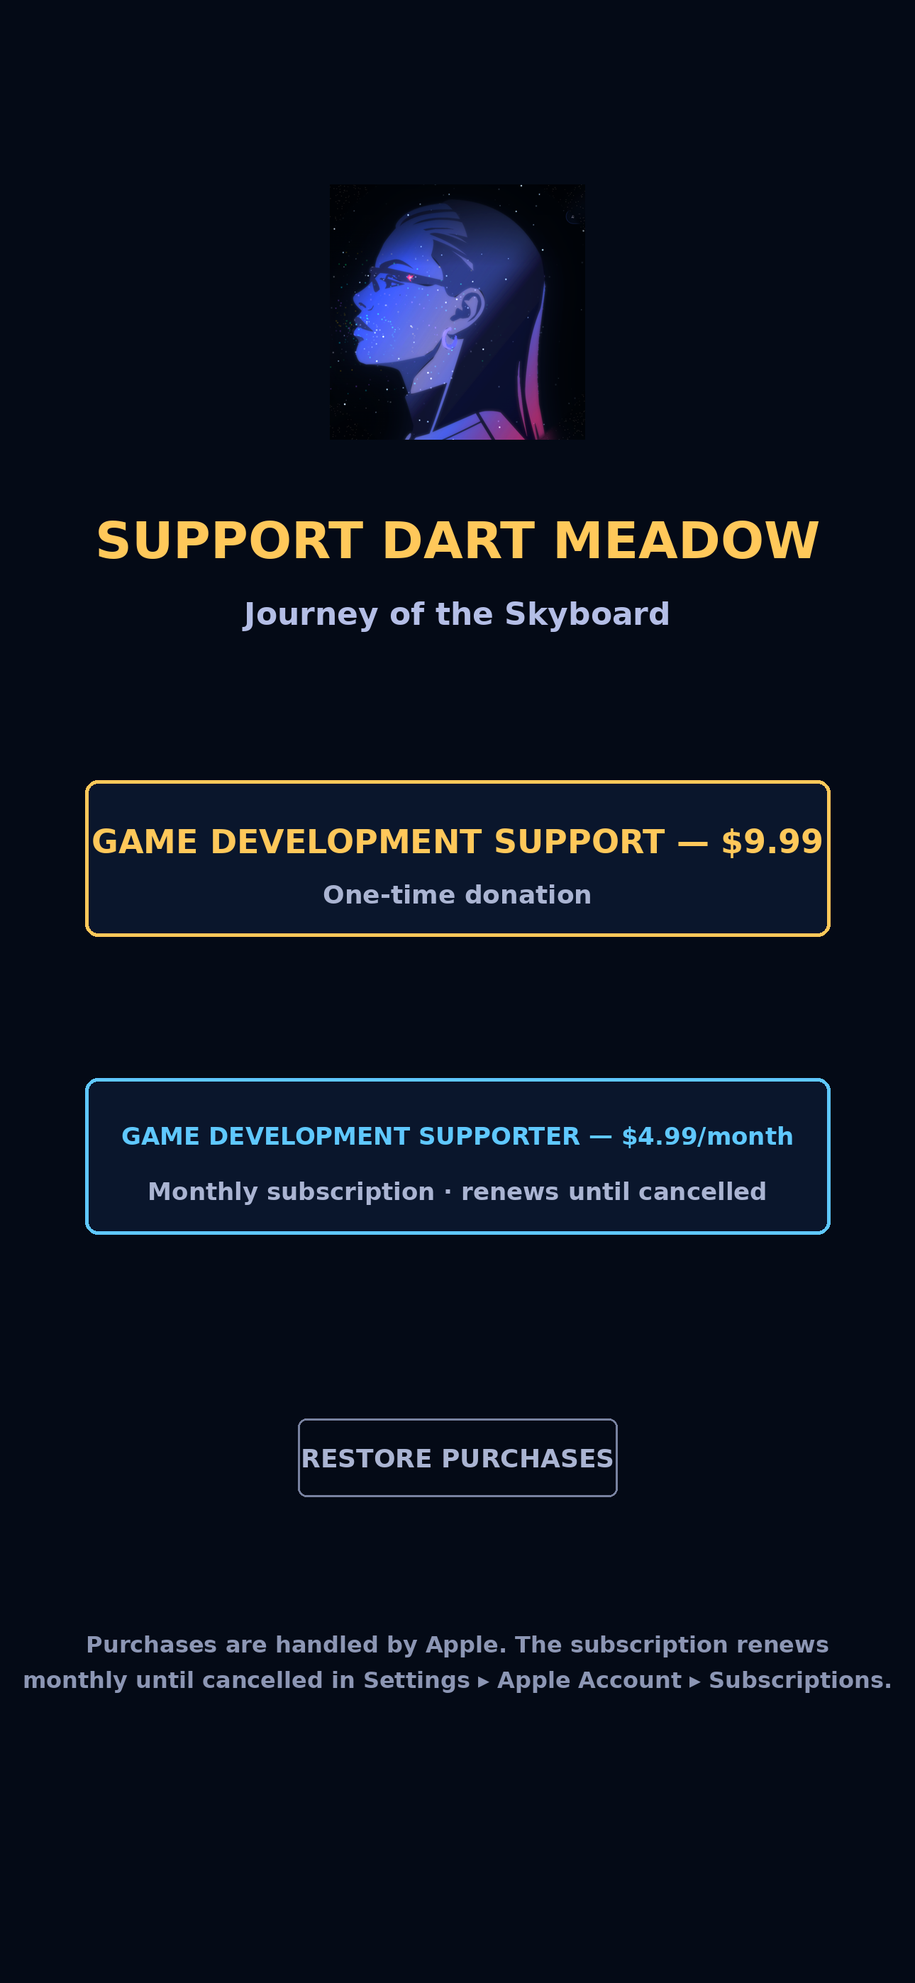
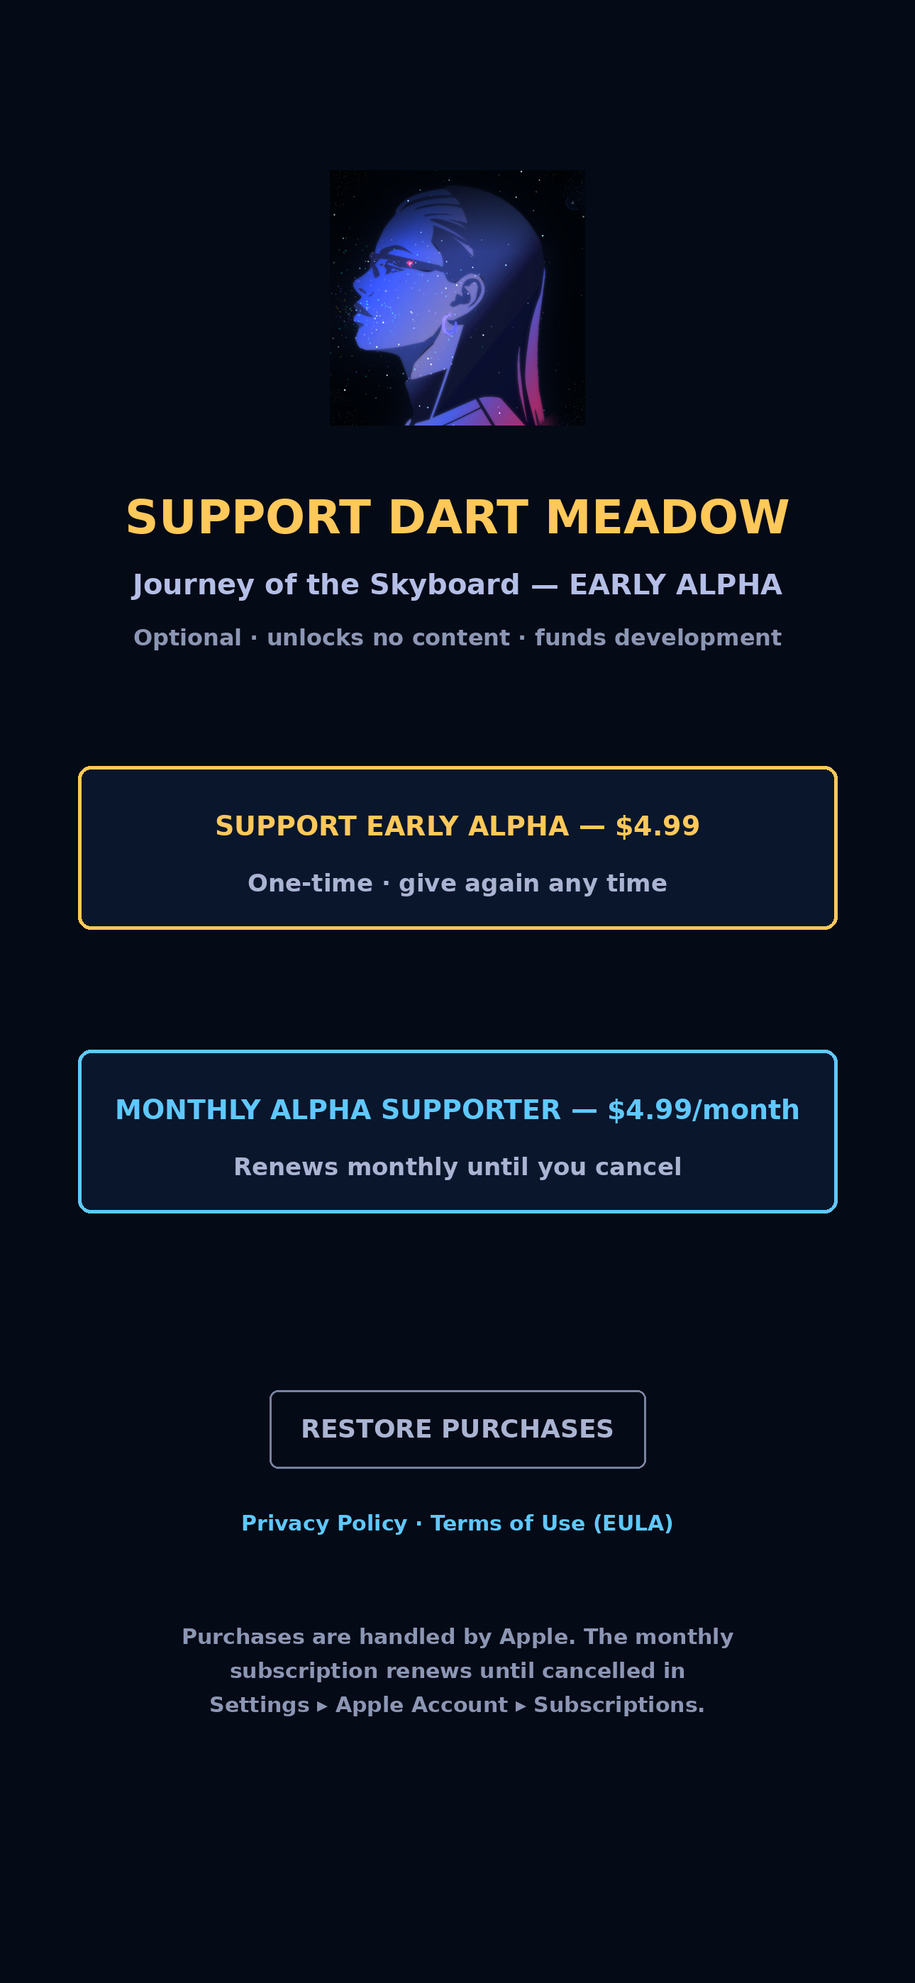
Publishing prep: alpha support IAP labels, listing metadata + asc_listing.py, screenshot workflow

diff --git a/App/Bridge/dm-ios-bridge.js b/App/Bridge/dm-ios-bridge.js
@@ -255,7 +255,7 @@ try { (function () {
     const thanks = lsGet(THANKS_LS) || { donations: 0 };
     if (iapState.status.subscribed) {
       box.appendChild(iapEl('div', 'font-family:var(--font-hud);font-size:.62rem;letter-spacing:.1em;color:var(--gold);line-height:1.6;',
-        '✓ THANK YOU — YOU\'RE A GAME DEVELOPMENT SUPPORTER' + (iapState.status.willRenew === false ? ' (ends ' + String(iapState.status.expires || '').slice(0, 10) + ')' : ' · RENEWS MONTHLY')));
+        '✓ THANK YOU — YOU\'RE A MONTHLY ALPHA SUPPORTER' + (iapState.status.willRenew === false ? ' (ends ' + String(iapState.status.expires || '').slice(0, 10) + ')' : ' · RENEWS MONTHLY')));
     }
     if (thanks.donations > 0) {
       box.appendChild(iapEl('div', 'font-family:var(--font-mono);font-size:.6rem;color:var(--cyan);', '❤ Thank you for ' + thanks.donations + ' donation' + (thanks.donations === 1 ? '' : 's') + '!'));
@@ -270,10 +270,10 @@ try { (function () {
       b.onclick = () => buy(id);
       return b;
     };
-    box.appendChild(mk(IAP.donation, '🌟 GAME DEVELOPMENT SUPPORT', 'var(--gold)'));
-    box.appendChild(iapEl('div', 'font-family:var(--font-mono);font-size:.54rem;color:var(--text-dim);margin-top:-.6rem;', 'One-time donation · give again any time'));
-    box.appendChild(mk(IAP.monthly, '☄ GAME DEVELOPMENT SUPPORTER', 'var(--cyan)'));
-    box.appendChild(iapEl('div', 'font-family:var(--font-mono);font-size:.54rem;color:var(--text-dim);margin-top:-.6rem;', 'Monthly subscription · renews automatically until you cancel'));
+    box.appendChild(mk(IAP.donation, '🌟 SUPPORT EARLY ALPHA', 'var(--gold)'));
+    box.appendChild(iapEl('div', 'font-family:var(--font-mono);font-size:.54rem;color:var(--text-dim);margin-top:-.6rem;', 'One-time support for early alpha development · give again any time'));
+    box.appendChild(mk(IAP.monthly, '☄ MONTHLY ALPHA SUPPORTER', 'var(--cyan)'));
+    box.appendChild(iapEl('div', 'font-family:var(--font-mono);font-size:.54rem;color:var(--text-dim);margin-top:-.6rem;', 'Monthly support for early alpha development · renews automatically until you cancel'));
     const row = iapEl('div', 'display:flex;gap:.6rem;justify-content:center;flex-wrap:wrap;');
     const restore = iapEl('button', 'background:none;border:1px solid var(--border);color:var(--text-dim);font-family:var(--font-hud);font-size:.52rem;letter-spacing:.1em;padding:.45rem .9rem;border-radius:2px;cursor:pointer;', 'RESTORE PURCHASES');
     restore.onclick = doRestore;
@@ -307,7 +307,7 @@ try { (function () {
       if (r.status === 'success') {
         if (id === IAP.donation) { const t = lsGet(THANKS_LS) || { donations: 0 }; t.donations++; t.last = Date.now(); lsSet(THANKS_LS, t); }
         iapState.status = Object.assign(iapState.status, r);
-        say(id === IAP.donation ? '❤ Thank you for supporting DART Meadow!' : '☄ Thank you — you\'re a Game Development Supporter!', 4200);
+        say(id === IAP.donation ? '❤ Thank you for supporting DART Meadow\'s early alpha!' : '☄ Thank you — you\'re a Monthly Alpha Supporter!', 4200);
         try { J().analytics.track('support', id === IAP.donation ? 'donation' : 'monthly'); } catch (e) {}
         iapState.busy = false; renderSupport('');
       } else {

diff --git a/Web/index.html b/Web/index.html
@@ -1240,8 +1240,9 @@ html.immersive #app,html.immersive #loading-screen{height:100dvh;}
     <div style="text-align:left;background:rgba(var(--acc-rgb),0.04);border:1px solid var(--border);border-radius:4px;padding:0.8rem 1rem;margin-bottom:1rem;">
       <div style="font-family:var(--font-hud);font-size:0.6rem;letter-spacing:0.1em;color:var(--cyan);margin-bottom:0.4rem;">WAYS TO SUPPORT</div>
       <div style="font-family:var(--font-mono);font-size:0.66rem;color:var(--text);line-height:1.7;">
-        <div>🌟 <strong style="color:var(--gold);">Game Development Support</strong> — one-time donation</div>
-        <div>☄ <strong style="color:var(--cyan);">Game Development Supporter</strong> — monthly subscription</div>
+        <div>🌟 <strong style="color:var(--gold);">Support Early Alpha</strong> — one-time</div>
+        <div>☄ <strong style="color:var(--cyan);">Monthly Alpha Supporter</strong> — renews monthly</div>
+        <div style="opacity:.75;">DART Meadow is in early alpha. Purchases are optional, unlock no content, and go straight into development. Prices are shown in your App Store currency below.</div>
       </div>
     </div>
 

diff --git a/App/GameViewController.swift b/App/GameViewController.swift
@@ -19,7 +19,9 @@ final class GameViewController: UIViewController {
     override var prefersHomeIndicatorAutoHidden: Bool { true }
     override var preferredScreenEdgesDeferringSystemGestures: UIRectEdge { .all }
     override var supportedInterfaceOrientations: UIInterfaceOrientationMask {
-        UIDevice.current.userInterfaceIdiom == .pad ? .all : .allButUpsideDown
+        // -dmLandscape: CI App Store screenshot runs only (never set in normal launches).
+        if ProcessInfo.processInfo.arguments.contains("-dmLandscape") { return .landscapeRight }
+        return UIDevice.current.userInterfaceIdiom == .pad ? .all : .allButUpsideDown
     }
 
     // MARK: Lifecycle

diff --git a/scripts/asc_listing.py b/scripts/asc_listing.py
@@ -1,0 +1,243 @@
+#!/usr/bin/env python3
+"""Publishing prep for DART Meadow (no submission):
+  1) IAP: donation $4.99, alpha-supporter names/descriptions, notes, review screenshot
+  2) App Store listing: version 1.0 en-US metadata, categories, age rating, Free price,
+     availability, review contact, screenshots from Design/appstore/<DISPLAY_TYPE>/*.png
+Never submits anything for review."""
+import hashlib, json, os, sys
+from pathlib import Path
+import requests
+sys.path.insert(0, os.path.dirname(__file__))
+from asc import req, req_soft, get_all, summary, find_app  # noqa: E402
+import asc_iap  # noqa: E402
+
+ROOT = Path(__file__).resolve().parent.parent
+L = json.loads((ROOT / "Design/appstore/listing.json").read_text())
+V2 = "https://api.appstoreconnect.apple.com/v2"
+IAP_NOTE = ("Optional support purchase behind the ❤ button on the main menu. DART Meadow is in early alpha; "
+            "this purchase unlocks no content and only funds development (a thank-you is shown). "
+            "No account needed: Continue as Guest.")
+DON = dict(ref="Support Early Alpha — One-Time $4.99", name="Support Early Alpha",
+           desc="One-time support for DART Meadow's early alpha.", price="4.99")
+MON = dict(ref="Monthly Alpha Supporter $4.99", name="Monthly Alpha Supporter",
+           desc="Monthly support for early alpha; renews until canceled")
+
+
+def errs(r):
+    try: return "; ".join(f"{e.get('code')}: {e.get('detail')}" for e in r.json().get("errors", []))
+    except Exception: return r.text[:300]
+
+
+def soft(label, r):
+    ok = r.status_code < 300
+    summary(f"- {label}: HTTP {r.status_code}" + ("" if ok else f" — {errs(r)}"))
+    return ok
+
+
+def replace_shot(get_url, create_path, rel_key, owner_type, owner_id):
+    g = req_soft("GET", get_url)
+    cur = (g.json().get("data") or None) if g.status_code == 200 else None
+    if cur:
+        req_soft("DELETE", f"{create_path}/{cur['id']}")
+    return asc_iap.upload_screenshot(create_path, rel_key, owner_type, owner_id)
+
+
+def iap(app_id):
+    summary("### In-app purchases")
+    # donation
+    iap = next(i for i in get_all(f"/apps/{app_id}/inAppPurchasesV2") if i["attributes"]["productId"] == asc_iap.DONATION["productId"])
+    iid = iap["id"]; v2 = f"{V2}/inAppPurchases/{iid}"
+    soft("donation reference name/notes", req_soft("PATCH", v2, json={"data": {"type": "inAppPurchases", "id": iid,
+         "attributes": {"name": DON["ref"], "reviewNote": IAP_NOTE}}}))
+    for l in req("GET", v2 + "/inAppPurchaseLocalizations")["data"]:
+        if l["attributes"]["locale"] == "en-US":
+            soft("donation en-US name/description", req_soft("PATCH", f"/inAppPurchaseLocalizations/{l['id']}", json={"data": {
+                "type": "inAppPurchaseLocalizations", "id": l["id"], "attributes": {"name": DON["name"], "description": DON["desc"]}}}))
+    pts = req("GET", v2 + "/pricePoints", params={"filter[territory]": "USA", "limit": 8000})["data"]
+    pp = next(x for x in pts if x["attributes"].get("customerPrice") == DON["price"])
+    soft("donation price → $4.99 (USA base, auto-equalized)", req_soft("POST", "/inAppPurchasePriceSchedules", json={
+        "data": {"type": "inAppPurchasePriceSchedules", "relationships": {
+            "inAppPurchase": {"data": {"type": "inAppPurchases", "id": iid}},
+            "baseTerritory": {"data": {"type": "territories", "id": "USA"}},
+            "manualPrices": {"data": [{"type": "inAppPurchasePrices", "id": "${p1}"}]}}},
+        "included": [{"type": "inAppPurchasePrices", "id": "${p1}", "attributes": {"startDate": None},
+                      "relationships": {"inAppPurchasePricePoint": {"data": {"type": "inAppPurchasePricePoints", "id": pp["id"]}}}}]}))
+    summary("- donation review screenshot: " + replace_shot(v2 + "/appStoreReviewScreenshot", "/inAppPurchaseAppStoreReviewScreenshots",
+                                                             "inAppPurchaseV2", "inAppPurchases", iid))
+    # verify price
+    sch = req_soft("GET", v2 + "/iapPriceSchedule/manualPrices", params={"include": "inAppPurchasePricePoint", "filter[territory]": "USA"})
+    if sch.status_code == 200:
+        inc = [x["attributes"].get("customerPrice") for x in sch.json().get("included", []) if x["type"] == "inAppPurchasePricePoints"]
+        summary(f"  · donation USA manual price now: {inc}")
+    # subscription
+    grp = next(g for g in get_all(f"/apps/{app_id}/subscriptionGroups") if g["attributes"]["referenceName"] == asc_iap.GROUP)
+    sub = next(x for x in req("GET", f"/subscriptionGroups/{grp['id']}/subscriptions")["data"]
+               if x["attributes"]["productId"] == asc_iap.MONTHLY["productId"])
+    sid = sub["id"]
+    soft("monthly reference name/notes", req_soft("PATCH", f"/subscriptions/{sid}", json={"data": {"type": "subscriptions", "id": sid,
+         "attributes": {"name": MON["ref"], "reviewNote": IAP_NOTE}}}))
+    for l in req("GET", f"/subscriptions/{sid}/subscriptionLocalizations")["data"]:
+        if l["attributes"]["locale"] == "en-US":
+            soft("monthly en-US name/description", req_soft("PATCH", f"/subscriptionLocalizations/{l['id']}", json={"data": {
+                "type": "subscriptionLocalizations", "id": l["id"], "attributes": {"name": MON["name"], "description": MON["desc"]}}}))
+    pr = req_soft("GET", f"/subscriptions/{sid}/prices", params={"filter[territory]": "USA", "include": "subscriptionPricePoint"})
+    if pr.status_code == 200:
+        inc = [x["attributes"].get("customerPrice") for x in pr.json().get("included", []) if x["type"] == "subscriptionPricePoints"]
+        summary(f"  · monthly USA price: {inc}")
+    summary("- monthly review screenshot: " + replace_shot(f"/subscriptions/{sid}/appStoreReviewScreenshot", "/subscriptionAppStoreReviewScreenshots",
+                                                            "subscription", "subscriptions", sid))
+    for i in get_all(f"/apps/{app_id}/inAppPurchasesV2"):
+        summary(f"  · {i['attributes']['productId']}: {i['attributes'].get('state')}")
+    for x in req("GET", f"/subscriptionGroups/{grp['id']}/subscriptions")["data"]:
+        summary(f"  · {x['attributes']['productId']}: {x['attributes'].get('state')}")
+
+
+AGE = {  # 2025+ age rating questionnaire
+    "alcoholTobaccoOrDrugUseOrReferences": "NONE", "contests": "NONE", "gamblingSimulated": "NONE",
+    "gunsOrOtherWeapons": "NONE", "horrorOrFearThemes": "NONE", "matureOrSuggestiveThemes": "NONE",
+    "medicalOrTreatmentInformation": "NONE", "profanityOrCrudeHumor": "NONE",
+    "sexualContentGraphicAndNudity": "NONE", "sexualContentOrNudity": "NONE",
+    "violenceCartoonOrFantasy": "NONE", "violenceRealistic": "NONE",
+    "violenceRealisticProlongedGraphicOrSadistic": "NONE",
+    "gambling": False, "unrestrictedWebAccess": False, "lootBox": False, "advertising": False,
+    "messagingAndChat": True, "userGeneratedContent": True, "parentalControls": False,
+    "ageAssurance": False, "healthOrWellnessTopics": False,
+}
+
+
+def age_rating(app_info_id):
+    d = req("GET", f"/appInfos/{app_info_id}/ageRatingDeclaration")["data"]
+    attrs = dict(AGE)
+    for _ in range(8):
+        r = req_soft("PATCH", f"/ageRatingDeclarations/{d['id']}", json={"data": {"type": "ageRatingDeclarations", "id": d["id"], "attributes": attrs}})
+        if r.status_code < 300:
+            summary(f"- age rating questionnaire: saved ({len(attrs)} answers)"); break
+        bad = [e.get("source", {}).get("pointer", "").split("/")[-1] for e in r.json().get("errors", [])]
+        bad = [b for b in bad if b in attrs]
+        summary(f"  · age rating rejected {bad or errs(r)}")
+        if not bad: break
+        for b in bad: attrs.pop(b, None)
+    a = req("GET", f"/appInfos/{app_info_id}/ageRatingDeclaration")["data"]["attributes"]
+    summary("  · stored: " + ", ".join(f"{k}={v}" for k, v in a.items() if v not in (None, "NONE", False)))
+
+
+def listing(app_id):
+    summary("### App Store listing (not submitted)")
+    infos = req("GET", f"/apps/{app_id}/appInfos")["data"]
+    info = next((i for i in infos if i["attributes"].get("appStoreState") in ("PREPARE_FOR_SUBMISSION", None) or
+                 i["attributes"].get("state") in ("PREPARE_FOR_SUBMISSION",)), infos[0])
+    iid = info["id"]
+    soft("categories Games › Adventure + Simulation", req_soft("PATCH", f"/appInfos/{iid}", json={"data": {"type": "appInfos", "id": iid, "relationships": {
+        "primaryCategory": {"data": {"type": "appCategories", "id": "GAMES"}},
+        "primarySubcategoryOne": {"data": {"type": "appCategories", "id": "GAMES_ADVENTURE"}},
+        "primarySubcategoryTwo": {"data": {"type": "appCategories", "id": "GAMES_SIMULATION"}}}}}))
+    for l in req("GET", f"/appInfos/{iid}/appInfoLocalizations")["data"]:
+        if l["attributes"]["locale"] == "en-US":
+            soft("subtitle + privacy URL", req_soft("PATCH", f"/appInfoLocalizations/{l['id']}", json={"data": {"type": "appInfoLocalizations", "id": l["id"],
+                 "attributes": {"subtitle": L["subtitle"], "privacyPolicyUrl": L["privacyPolicyUrl"]}}}))
+            summary(f"  · app name: {l['attributes'].get('name')}")
+    age_rating(iid)
+
+    # price: Free
+    pts = get_all(f"/apps/{app_id}/appPricePoints", {"filter[territory]": "USA"})
+    free = next((p for p in pts if float(p["attributes"].get("customerPrice") or 1) == 0.0), None)
+    if free:
+        soft("price: Free", req_soft("POST", "/appPriceSchedules", json={
+            "data": {"type": "appPriceSchedules", "relationships": {
+                "app": {"data": {"type": "apps", "id": app_id}},
+                "baseTerritory": {"data": {"type": "territories", "id": "USA"}},
+                "manualPrices": {"data": [{"type": "appPrices", "id": "${f}"}]}}},
+            "included": [{"type": "appPrices", "id": "${f}", "attributes": {"startDate": None},
+                          "relationships": {"appPricePoint": {"data": {"type": "appPricePoints", "id": free["id"]}}}}]}))
+    # availability: all territories
+    have = req_soft("GET", f"/apps/{app_id}/appAvailabilityV2")
+    if have.status_code == 200 and have.json().get("data"):
+        summary("- availability: already set")
+    else:
+        terr = [t["id"] for t in get_all("/territories")]
+        soft(f"availability: all {len(terr)} territories + new ones", req_soft("POST", f"{V2}/appAvailabilities", json={
+            "data": {"type": "appAvailabilities", "attributes": {"availableInNewTerritories": True},
+                     "relationships": {"app": {"data": {"type": "apps", "id": app_id}},
+                                       "territoryAvailabilities": {"data": [{"type": "territoryAvailabilities", "id": f"${{{t}}}"} for t in terr]}}},
+            "included": [{"type": "territoryAvailabilities", "id": f"${{{t}}}", "attributes": {"available": True},
+                          "relationships": {"territory": {"data": {"type": "territories", "id": t}}}} for t in terr]}))
+
+    # version 1.0
+    vers = req("GET", f"/apps/{app_id}/appStoreVersions", params={"filter[platform]": "IOS"})["data"]
+    ver = next((v for v in vers if v["attributes"].get("appStoreState") in ("PREPARE_FOR_SUBMISSION", "DEVELOPER_REJECTED", "REJECTED", "METADATA_REJECTED")), None)
+    if not ver:
+        r = req_soft("POST", "/appStoreVersions", json={"data": {"type": "appStoreVersions",
+            "attributes": {"platform": "IOS", "versionString": "1.0", "copyright": L["copyright"], "releaseType": "MANUAL"},
+            "relationships": {"app": {"data": {"type": "apps", "id": app_id}}}}})
+        soft("create version 1.0", r); ver = r.json()["data"]
+    vid = ver["id"]
+    soft("version copyright/manual release", req_soft("PATCH", f"/appStoreVersions/{vid}", json={"data": {"type": "appStoreVersions", "id": vid,
+         "attributes": {"copyright": L["copyright"], "releaseType": "MANUAL"}}}))
+    locs = req("GET", f"/appStoreVersions/{vid}/appStoreVersionLocalizations")["data"]
+    en = next((l for l in locs if l["attributes"]["locale"] == "en-US"), None)
+    la = {k: L[k] for k in ("description", "keywords", "promotionalText", "supportUrl", "marketingUrl")}
+    if en:
+        soft("version en-US description/keywords/promo/URLs", req_soft("PATCH", f"/appStoreVersionLocalizations/{en['id']}", json={"data": {
+            "type": "appStoreVersionLocalizations", "id": en["id"], "attributes": la}}))
+    else:
+        r = req_soft("POST", "/appStoreVersionLocalizations", json={"data": {"type": "appStoreVersionLocalizations",
+            "attributes": dict(la, locale="en-US"), "relationships": {"appStoreVersion": {"data": {"type": "appStoreVersions", "id": vid}}}}})
+        soft("version en-US localization", r); en = r.json()["data"]
+    # review contact
+    rd = req_soft("GET", f"/appStoreVersions/{vid}/appStoreReviewDetail")
+    bphone = req("GET", f"/apps/{app_id}/betaAppReviewDetail")["data"]["attributes"].get("contactPhone")
+    ra = {"contactFirstName": "Justin", "contactLastName": "Venable", "contactEmail": "dartmeadow@gmail.com",
+          "contactPhone": bphone, "demoAccountRequired": False, "notes": L["reviewNotes"]}
+    if rd.status_code == 200 and rd.json().get("data"):
+        d = rd.json()["data"]
+        soft("App Review contact/notes", req_soft("PATCH", f"/appStoreReviewDetails/{d['id']}", json={"data": {"type": "appStoreReviewDetails", "id": d["id"], "attributes": ra}}))
+    else:
+        soft("App Review contact/notes", req_soft("POST", "/appStoreReviewDetails", json={"data": {"type": "appStoreReviewDetails", "attributes": ra,
+             "relationships": {"appStoreVersion": {"data": {"type": "appStoreVersions", "id": vid}}}}}))
+    screenshots(en["id"])
+    v = req("GET", f"/appStoreVersions/{vid}")["data"]["attributes"]
+    summary(f"- version {v.get('versionString')} state **{v.get('appStoreState')}** (not submitted)")
+    a = req("GET", f"/apps/{app_id}")["data"]["attributes"]
+    summary(f"- contentRightsDeclaration: {a.get('contentRightsDeclaration')}")
+
+
+def screenshots(loc_id):
+    base = ROOT / "Design/appstore"
+    for d in sorted(p for p in base.iterdir() if p.is_dir() and p.name.startswith("APP_")):
+        files = sorted(d.glob("*.png"))
+        if not files: continue
+        sets = req("GET", f"/appStoreVersionLocalizations/{loc_id}/appScreenshotSets")["data"]
+        s = next((x for x in sets if x["attributes"]["screenshotDisplayType"] == d.name), None)
+        if s:
+            for old in req("GET", f"/appScreenshotSets/{s['id']}/appScreenshots")["data"]:
+                req_soft("DELETE", f"/appScreenshots/{old['id']}")
+        else:
+            s = req("POST", "/appScreenshotSets", json={"data": {"type": "appScreenshotSets", "attributes": {"screenshotDisplayType": d.name},
+                "relationships": {"appStoreVersionLocalization": {"data": {"type": "appStoreVersionLocalizations", "id": loc_id}}}}})["data"]
+        ok = 0
+        for f in files:
+            data = f.read_bytes()
+            r = req_soft("POST", "/appScreenshots", json={"data": {"type": "appScreenshots", "attributes": {"fileName": f.name, "fileSize": len(data)},
+                "relationships": {"appScreenshotSet": {"data": {"type": "appScreenshotSets", "id": s["id"]}}}}})
+            if r.status_code >= 300:
+                summary(f"  · {d.name}/{f.name}: reserve failed {errs(r)}"); continue
+            sd = r.json()["data"]
+            for op in sd["attributes"].get("uploadOperations") or []:
+                h = {x["name"]: x["value"] for x in op.get("requestHeaders") or []}
+                requests.request(op["method"], op["url"], headers=h, data=data[op["offset"]:op["offset"] + op["length"]], timeout=120)
+            r2 = req_soft("PATCH", f"/appScreenshots/{sd['id']}", json={"data": {"type": "appScreenshots", "id": sd["id"],
+                 "attributes": {"uploaded": True, "sourceFileChecksum": hashlib.md5(data).hexdigest()}}})
+            ok += r2.status_code < 300
+        summary(f"- screenshots {d.name}: {ok}/{len(files)} uploaded")
+
+
+def main():
+    app = find_app()
+    for fn in (iap, listing):
+        try: fn(app["id"])
+        except Exception as e: summary(f"- ❌ {fn.__name__} failed: {e!r}")
+    return 0
+
+
+if __name__ == "__main__":
+    sys.exit(main())

diff --git a/scripts/patch-web.py b/scripts/patch-web.py
@@ -37,8 +37,9 @@ BLOCK_PATCHES = [
      '    </div>'),
     ('support tiers text',
      re.compile(r'<div>☄ <strong style="color:var\(--cyan\);">\$5 / month</strong> — recurring supporter</div>\s*<div>🌟 <strong style="color:var\(--gold\);">\$20</strong> — one-time donation</div>'),
-     '<div>🌟 <strong style="color:var(--gold);">Game Development Support</strong> — one-time donation</div>\n'
-     '        <div>☄ <strong style="color:var(--cyan);">Game Development Supporter</strong> — monthly subscription</div>'),
+     '<div>🌟 <strong style="color:var(--gold);">Support Early Alpha</strong> — one-time</div>\n'
+     '        <div>☄ <strong style="color:var(--cyan);">Monthly Alpha Supporter</strong> — renews monthly</div>\n'
+     '        <div style="opacity:.75;">DART Meadow is in early alpha. Purchases are optional, unlock no content, and go straight into development. Prices are shown in your App Store currency below.</div>'),
     ('no js.stripe.com load',
      re.compile(r"    s\.src='https://js\.stripe\.com/v3/buy-button\.js';"),
      "    return; /* iOS app: Apple in-app purchase replaces Stripe */"),

diff --git a/scripts/asc.py b/scripts/asc.py
@@ -382,6 +382,9 @@ if __name__ == "__main__":
     cmd = sys.argv[1] if len(sys.argv) > 1 else ""
     if cmd == "provision":
         sys.exit(provision())
+    if cmd == "listing":
+        import asc_listing
+        sys.exit(asc_listing.main())
     if cmd == "external":
         import asc_external
         sys.exit(asc_external.main())
